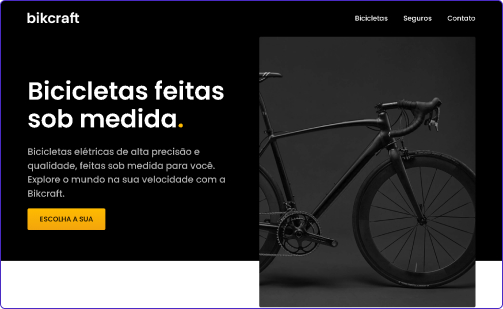
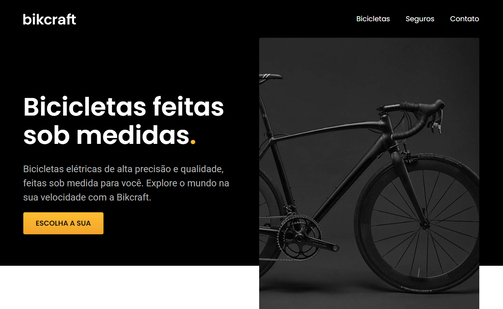
comit inicial 2

diff --git a/css/introducao.css b/css/introducao.css
@@ -13,13 +13,15 @@
   margin-bottom: 30px;
   position: relative;
 }
-.introducao picture img {
+.introducao  picture img {
   border-radius: 50%;
+  
 }
 .introducao .ilustracao-principal{
   justify-self: center;
   align-items: center;
   position: relative;
+  
 }
 .introducao .ilustracao-principal #imagem{
   position: absolute;

diff --git a/css/projetos.css b/css/projetos.css
@@ -34,6 +34,8 @@
 }
 .projetos-container picture img{
   transition: transform 0.5s 0.1s;
+  border: 1px solid #3228FA;
+  border-radius: 8px;
 }
 .projetos-container picture img:hover{
   transform: scale(1.1);
